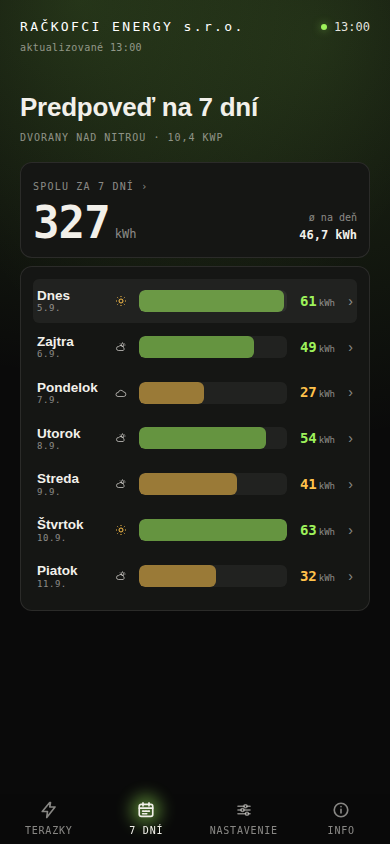
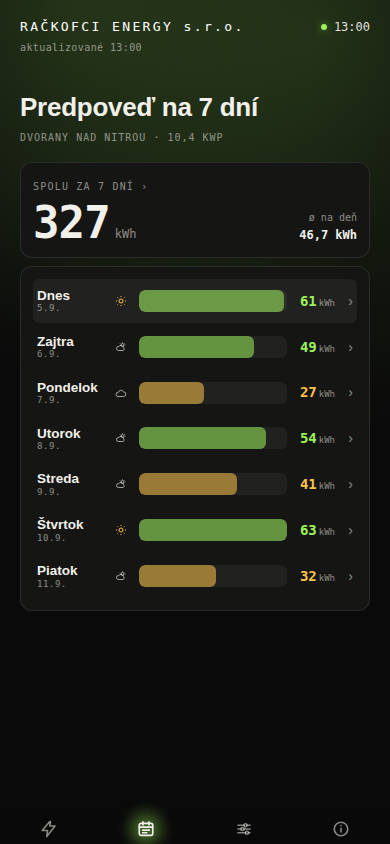
fix: skryť textové popisky kariet v spodnej navigácii, stačia ikony
Popiska ostáva v DOM (button tak má prístupný názov pre čítačku obrazovky
aj axe), len sa vizuálne neukazuje - bežný vzor "visually hidden". Menia
sa aj snímky v README (npm run screenshots), lebo pás navigácie je bez textu.

Claude-Session: https://claude.ai/code/session_014qrEhuFsdjfvJdvWGLc4yQ

diff --git a/style.css b/style.css
@@ -272,13 +272,10 @@ b {
     display: flex;
     flex-direction: column;
     align-items: center;
-    gap: 5px;
-    /* Výška pása na mobile a tablete stojí na tomto paddingu a na veľkosti ikony. Pôvodných
-       12/10px a 22px ikona dávali pás vysoký 64.5px, dnešných 7/6px a 18px ikona dávajú
-       51.5px, teda o 20 % menej. Keď sa ikona zmenšila z 22px na 18px, padding narástol
-       z 5/4px na 7/6px o presne tie isté 4px - výška pása sa tým nemenila, uvoľnené miesto
-       ostalo ikone ako vzduch okolo nej. Popiska (14.5px) a medzera 5px sú bez zmeny,
-       rovnako 1px horný okraj pása. Desktop (od 1024px) má vlastný padding aj vlastnú
+    /* Výška pása na mobile a tablete stojí na tomto paddingu a na veľkosti ikony - popiska
+       je vizuálne skrytá (viď .nav-item .lbl nižšie), takže do výšky ani šírky nezasahuje.
+       Pôvodných 12/10px a 22px ikona dávali pás vysoký 64.5px, dnešných 7/6px a 18px ikona
+       dávajú 51.5px, teda o 20 % menej. Desktop (od 1024px) má vlastný padding aj vlastnú
        veľkosť ikon, tieto riadky naň nedosiahnu. */
     padding: 7px 0 6px;
     color: var(--ink-35);
@@ -294,10 +291,20 @@ b {
     stroke-linecap: round;
     stroke-linejoin: round;
 }
+/* Popiska ostáva v DOM kvôli čítačke obrazovky (button tak má prístupný názov), len sa
+   vizuálne neukazuje - ikony na páse stačia na rozoznanie karty. Toto je bežný vzor
+   "visually hidden": na rozdiel od display:none alebo aria-hidden ho čítačka aj axe
+   stále vidia, len sa nekreslí. */
 .nav-item .lbl {
-    font-size: var(--fs-xs);
-    letter-spacing: 0.08em;
-    color: inherit;
+    position: absolute;
+    width: 1px;
+    height: 1px;
+    margin: -1px;
+    padding: 0;
+    overflow: hidden;
+    clip: rect(0, 0, 0, 0);
+    white-space: nowrap;
+    border: 0;
 }
 .nav-item.active {
     color: var(--ink);
@@ -2025,12 +2032,9 @@ b {
         width: 16px;
         height: 16px;
     }
-    .nav-item .lbl {
-        line-height: 1.2;
-    }
-    /* Na desktope je položka v riadku: ikona (16px) stojí pri ľavom okraji, popiska vedľa nej.
-       Podsvietenie preto necentrujeme na šírku položky, ale na ikonu - 8px od ľavého okraja
-       a na polovicu výšky. */
+    /* Na desktope je položka v riadku, ale keďže popiska je vizuálne skrytá, v riadku je
+       fakticky len ikona. Podsvietenie preto necentrujeme na šírku položky, ale na ikonu -
+       8px od ľavého okraja a na polovicu výšky. */
     .nav-item.active::after {
         top: 50%;
         left: 8px;

diff --git a/README.md b/README.md
@@ -10,7 +10,8 @@ Cloudflare Worker.
 
 ## Čo appka ukazuje
 
-Karty sú pomenované tak, ako ich vidno v spodnej navigácii.
+Spodná navigácia má len ikony bez textu – mená kariet nižšie slúžia len na orientáciu
+v tomto popise.
 
 |                Terazky                 |               7 dní               |               Info               |
 | :------------------------------------: | :-------------------------------: | :------------------------------: |
